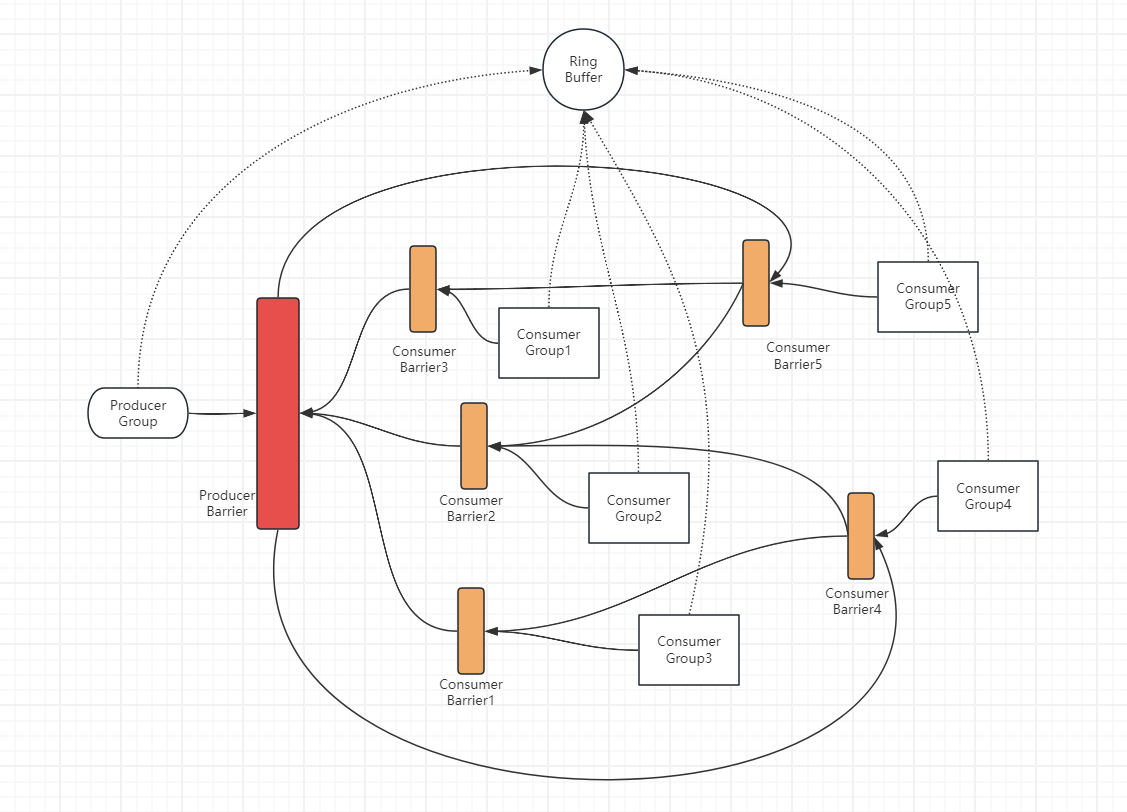
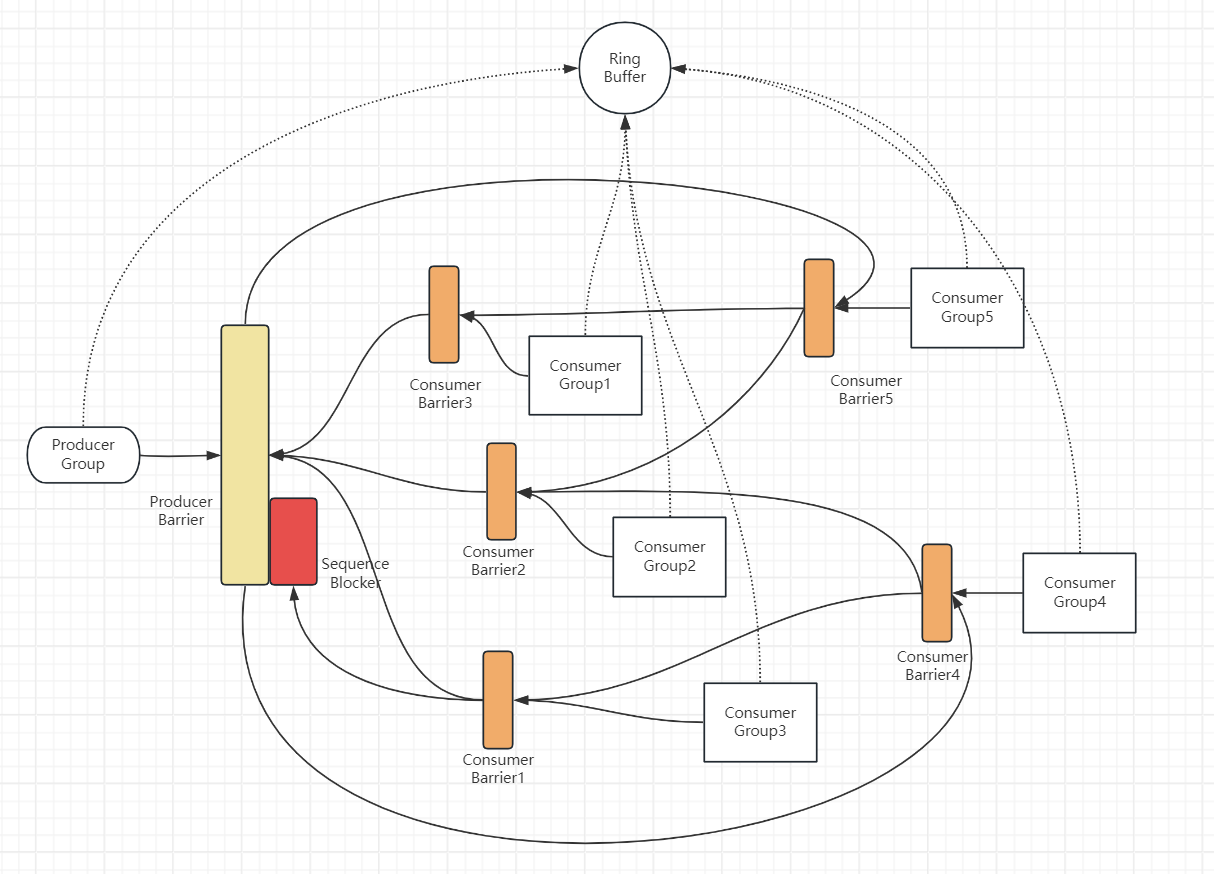
更新一下图

diff --git a/src/main/java/cn/wjybxx/disruptor/MpUnboundedBuffer.java b/src/main/java/cn/wjybxx/disruptor/MpUnboundedBuffer.java
@@ -36,7 +36,7 @@ abstract class MpUnboundedBufferFields<E> {
     /**
      * 链表的首部
      * 1. 可能没有消费者在该块，但消费者都从该块开始查询 -- 消费者高频访问。
-     * 2. 由【生产者】更新，生产者观察到消费者进入新块时，负责回收当前块。
+     * 2. 由【生产者】更新，生产者观察到消费者进入新块时，或自身进入新块时，尝试回收当前块。
      */
     private volatile MpUnboundedBufferChunk<E> headChunk;
 
@@ -339,7 +339,7 @@ public final class MpUnboundedBuffer<E> extends MpUnboundedBufferFields<E> imple
         if (!casProducerChunk(currentChunk, ROTATION)) {
             return null;
         }
-        // 获得更新chunk权限，这期间其它生产者需要等待
+        // 获得更新producerChunk权限，这期间其它生产者需要等待
         for (long i = 1; i <= chunksToAppend; i++) {
             MpUnboundedBufferChunk<E> newChunk = newOrPooledChunk(currentChunk, currentChunkIndex + i);
             currentChunk.soNext(newChunk);

diff --git a/src/main/java/cn/wjybxx/disruptor/MpUnboundedBufferSequencer.java b/src/main/java/cn/wjybxx/disruptor/MpUnboundedBufferSequencer.java
@@ -173,7 +173,7 @@ public class MpUnboundedBufferSequencer<T> implements Sequencer, ProducerBarrier
         }
         while (!cursor.compareAndSet(current, next));
         // 注意：此时消费者已能看见最新的序号，但新的块可能尚未分配
-        // 生产者尝试进入新块时回收旧块，可能不及时，但足够安全和开销小
+        // 生产者进入新块时尝试回收旧块，可能不及时，但足够安全和开销小
         if (!buffer.inSameChunk(current, next)) {
             buffer.tryMoveHeadToNext(Util.getMinimumSequence(gatingBarriers, current));
             buffer.producerChunkForSequence(next);

diff --git a/README.md b/README.md
@@ -11,7 +11,7 @@
 2. Sequencer是协调的集成，而不是生产者屏障，生产者屏障有明确的抽象。
 3. 协调的基本单位是屏障`Barrier`，依赖的单位也是屏障，而不是序列`Sequence`。
 4. 反转了Barrier和Consumer之间的Sequence依赖。
-5. 剥离了Blocker和WaitStrategy，**支持不同的消费者使用不同的等待策略**。
+5. 剥离了Blocker和WaitStrategy，**消费者可以使用不同的等待策略**，但使用同一个Blocker。
 6. 库只提供了核心的协调功能，并没有提供BatchEventProcessor这样的具体组件，完全由用户控制。
 7. 内置了一套无界缓冲区`MpUnboundedBuffer`。
 
@@ -22,7 +22,7 @@ ps: 很自信地讲，我的设计更容易理解。
 关于J9的VarHandle的内存意义，建议阅读 doug
 lea文章 [Using JDK 9 Memory Order Modes](https://gee.cs.oswego.edu/dl/html/j9mm.html)
 
-
 ## 其它
 
 1. JDK要求JDK11
+2. 测试用例暂时还没迁移，因为不是直接测试RingBuffer
